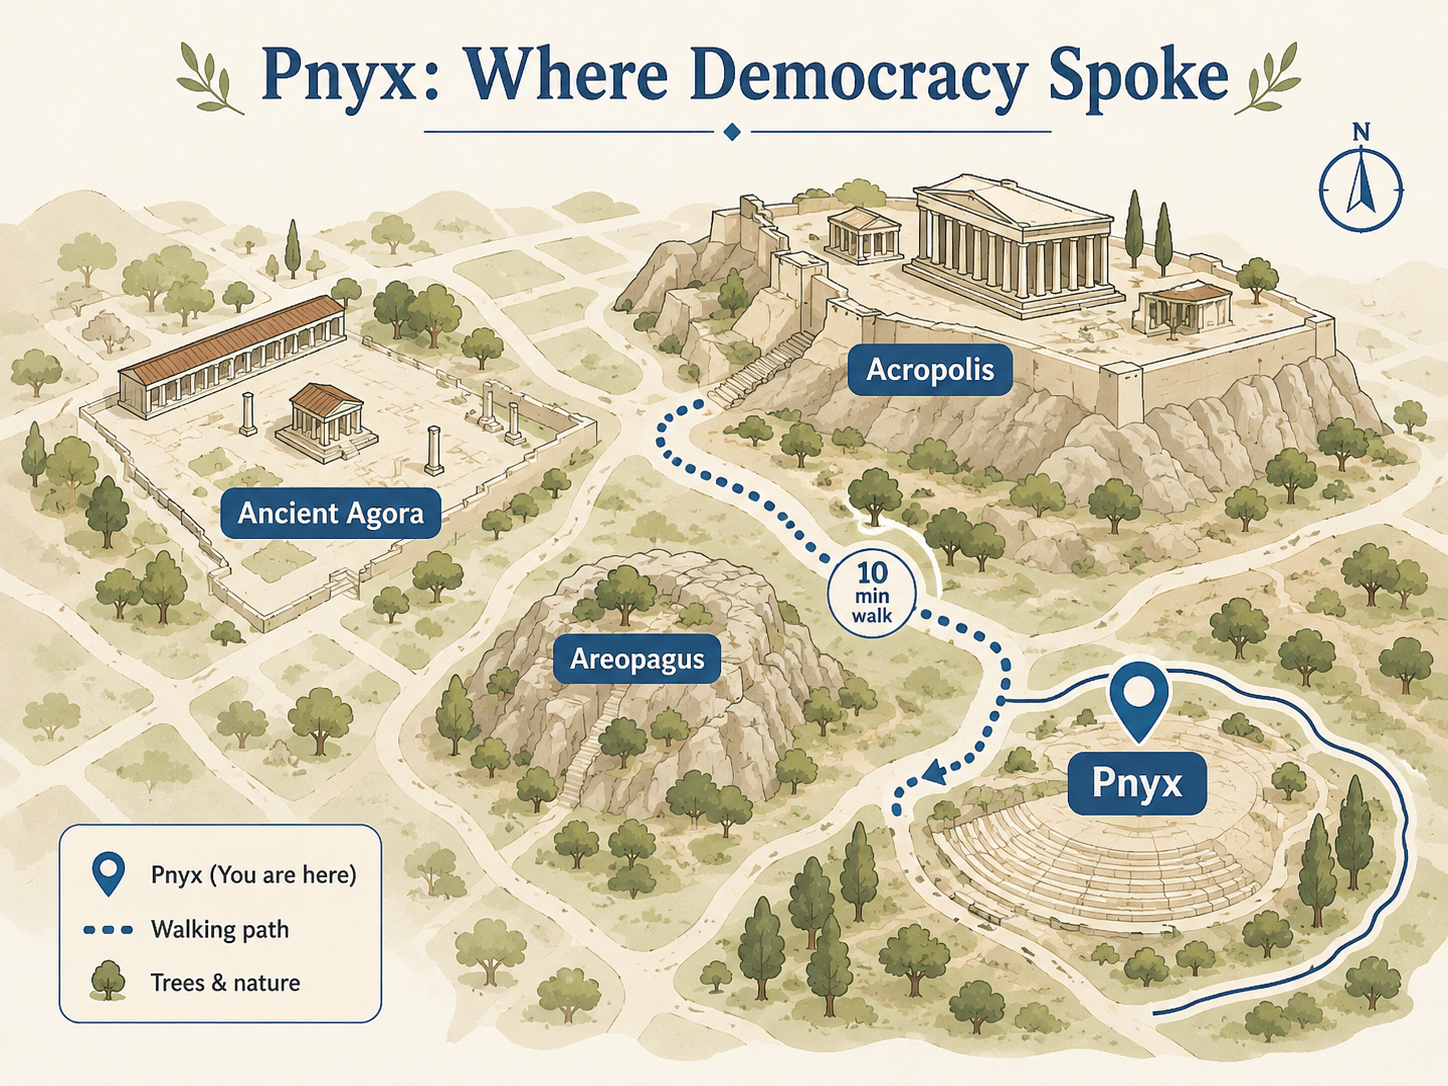
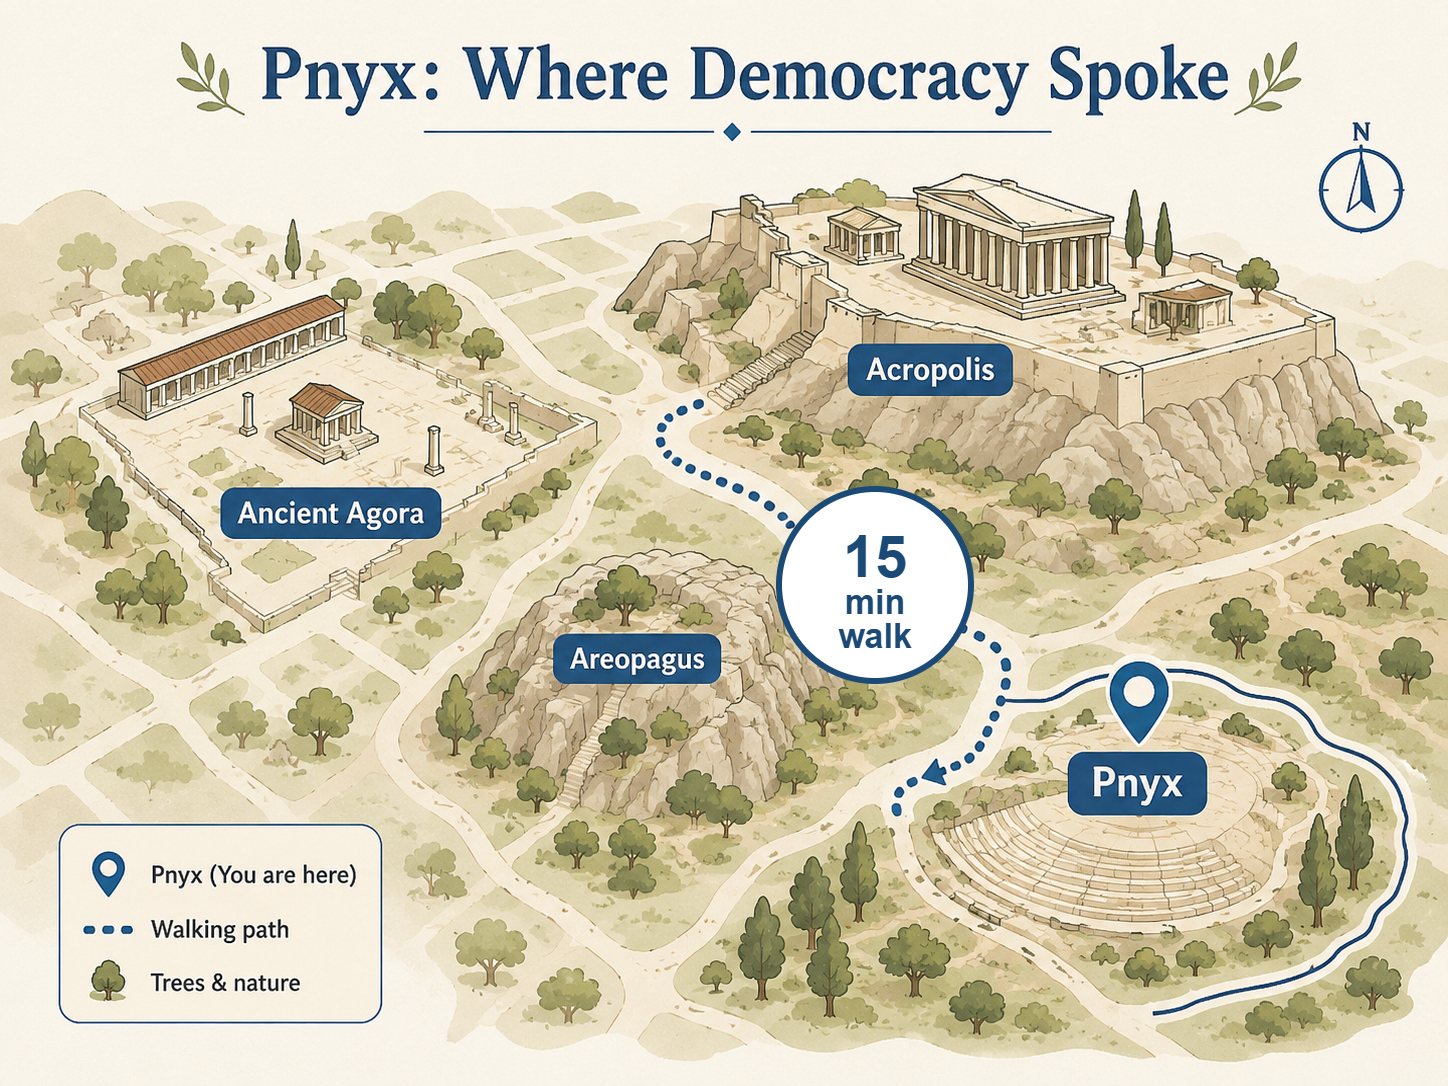
#commit make hero hook a badge, fit start page buttons on screen, clickable chapters
- landing: move "Most visitors never find it." into an amber pill above the headline, shorten hook1 translations (de/es/fr/el/zh) to match
- start page: auto-shrink chapter excerpts until Begin the walk / Navigate buttons fit the viewport; tapping a chapter card opens that chapter directly
- update pnyx-map2.png

Changed region(s): [[0.5283, 0.4254, 0.6837, 0.6381]]

diff --git a/src/pages/StartPage.tsx b/src/pages/StartPage.tsx
@@ -1,4 +1,4 @@
-import { useState, useEffect } from 'react'
+import { useState, useEffect, useLayoutEffect, useRef } from 'react'
 import { useNavigate, Link } from 'react-router-dom'
 import { useTranslation } from 'react-i18next'
 import Layout from '@/components/Layout'
@@ -10,12 +10,18 @@ import { withTimeout } from '@/lib/withTimeout'
 import { useFallbackStops } from '@/data/fallbackStops'
 import type { Stop } from '@/lib/types'
 
+const DEFAULT_EXCERPT_CHARS = 85
+const EXCERPT_SHRINK_STEP = 10
+
 export default function StartPage() {
   const { t, i18n } = useTranslation()
   const navigate = useNavigate()
   const fallbackStops = useFallbackStops()
   const [stops, setStops] = useState<Stop[]>([])
   const [isLoading, setIsLoading] = useState(true)
+  const [excerptChars, setExcerptChars] = useState(DEFAULT_EXCERPT_CHARS)
+  const contentRef = useRef<HTMLDivElement>(null)
+  const lastWidthRef = useRef(0)
 
   useEffect(() => {
     async function loadStops() {
@@ -39,6 +45,36 @@ export default function StartPage() {
     // eslint-disable-next-line react-hooks/exhaustive-deps
   }, [i18n.language])
 
+  // Shrink chapter excerpts step by step (before paint) until the action
+  // buttons at the bottom fit within the viewport without scrolling.
+  useLayoutEffect(() => {
+    if (isLoading) return
+    const el = contentRef.current
+    if (!el) return
+    const overflows =
+      el.getBoundingClientRect().bottom + window.scrollY > window.innerHeight
+    if (overflows && excerptChars > 0) {
+      setExcerptChars((c) => Math.max(0, c - EXCERPT_SHRINK_STEP))
+    }
+  }, [isLoading, excerptChars, stops])
+
+  // Re-fit on rotation / width changes; ignore height-only changes so the
+  // collapsing mobile URL bar doesn't make the text jump while scrolling.
+  useEffect(() => {
+    lastWidthRef.current = window.innerWidth
+    const onResize = () => {
+      if (window.innerWidth === lastWidthRef.current) return
+      lastWidthRef.current = window.innerWidth
+      setExcerptChars(DEFAULT_EXCERPT_CHARS)
+    }
+    window.addEventListener('resize', onResize)
+    return () => window.removeEventListener('resize', onResize)
+  }, [])
+
+  const openStop = (stop: Stop) => {
+    navigate(`/stop/${stop.id}`, { state: { stops } })
+  }
+
   const handleStart = () => {
     if (stops.length === 0) return
     void track('start_walk_clicked', '/start')
@@ -47,7 +83,7 @@ export default function StartPage() {
 
   return (
     <Layout>
-      <div className="space-y-6">
+      <div className="space-y-6" ref={contentRef}>
         {/* Header */}
         <div>
           <p className="text-xs uppercase tracking-widest text-amber-600 dark:text-amber-500 font-semibold mb-1">
@@ -86,7 +122,12 @@ export default function StartPage() {
           ) : (
             <div className="space-y-2">
               {stops.map((stop) => (
-                <StopCard key={stop.id} stop={stop} />
+                <StopCard
+                  key={stop.id}
+                  stop={stop}
+                  excerptChars={excerptChars}
+                  onClick={() => openStop(stop)}
+                />
               ))}
             </div>
           )}

diff --git a/src/components/StopCard.tsx b/src/components/StopCard.tsx
@@ -4,15 +4,36 @@ interface StopCardProps {
   stop: Stop
   isCurrentStop?: boolean
   onClick?: () => void
+  /** Max excerpt length in characters; 0 hides the description entirely. */
+  excerptChars?: number
 }
 
-export default function StopCard({ stop, isCurrentStop, onClick }: StopCardProps) {
+export default function StopCard({
+  stop,
+  isCurrentStop,
+  onClick,
+  excerptChars = 85,
+}: StopCardProps) {
   const excerpt =
-    stop.description.length > 85 ? stop.description.slice(0, 85) + '…' : stop.description
+    stop.description.length > excerptChars
+      ? stop.description.slice(0, excerptChars).trimEnd() + '…'
+      : stop.description
 
   return (
     <div
       onClick={onClick}
+      role={onClick ? 'button' : undefined}
+      tabIndex={onClick ? 0 : undefined}
+      onKeyDown={
+        onClick
+          ? (e) => {
+              if (e.key === 'Enter' || e.key === ' ') {
+                e.preventDefault()
+                onClick()
+              }
+            }
+          : undefined
+      }
       className={`rounded-2xl border p-4 transition-all duration-200 ${
         onClick ? 'cursor-pointer active:scale-[0.99]' : ''
       } ${
@@ -35,9 +56,11 @@ export default function StopCard({ stop, isCurrentStop, onClick }: StopCardProps
           <p className="font-semibold text-stone-800 dark:text-stone-100 text-sm leading-snug">
             {stop.title}
           </p>
-          <p className="text-stone-500 dark:text-stone-400 text-xs mt-1 leading-relaxed">
-            {excerpt}
-          </p>
+          {excerptChars > 0 && (
+            <p className="text-stone-500 dark:text-stone-400 text-xs mt-1 leading-relaxed">
+              {excerpt}
+            </p>
+          )}
         </div>
       </div>
     </div>

diff --git a/src/pages/LandingPage.tsx b/src/pages/LandingPage.tsx
@@ -24,6 +24,17 @@ export default function LandingPage() {
                            bg-gradient-to-b from-amber-50 to-stone-50
                            dark:from-stone-900 dark:to-stone-950
                            border-b border-stone-100 dark:border-stone-800">
+        {/* Teaser badge */}
+        <div className="text-center mb-4">
+          <p className="inline-flex items-center gap-1.5 rounded-full px-4 py-1.5
+                        bg-amber-100 border border-amber-300 text-amber-800
+                        dark:bg-amber-900/40 dark:border-amber-700 dark:text-amber-200
+                        font-sans text-sm font-semibold tracking-wide">
+            <span aria-hidden="true">✦</span>
+            {t('landing.hero.hook1')}
+          </p>
+        </div>
+
         {/* Headline — at the top */}
         <h1 className="font-serif text-3xl sm:text-4xl font-bold
                       text-stone-900 dark:text-stone-50
@@ -33,16 +44,8 @@ export default function LandingPage() {
           </span>
         </h1>
 
-        {/* Hook lines */}
+        {/* Hook line */}
         <div className="max-w-sm mx-auto mb-4 text-center">
-          <p className="font-serif italic text-lg sm:text-xl text-stone-700 dark:text-stone-200 leading-snug">
-            {t('landing.hero.hook1')}
-          </p>
-          <div className="flex items-center justify-center gap-2 my-2.5" aria-hidden="true">
-            <span className="h-px w-8 bg-amber-300 dark:bg-amber-700" />
-            <span className="w-1.5 h-1.5 rounded-full bg-amber-500" />
-            <span className="h-px w-8 bg-amber-300 dark:bg-amber-700" />
-          </div>
           <p className="font-serif italic text-lg sm:text-xl text-stone-700 dark:text-stone-200 leading-snug">
             {t('landing.hero.hook2')}
           </p>